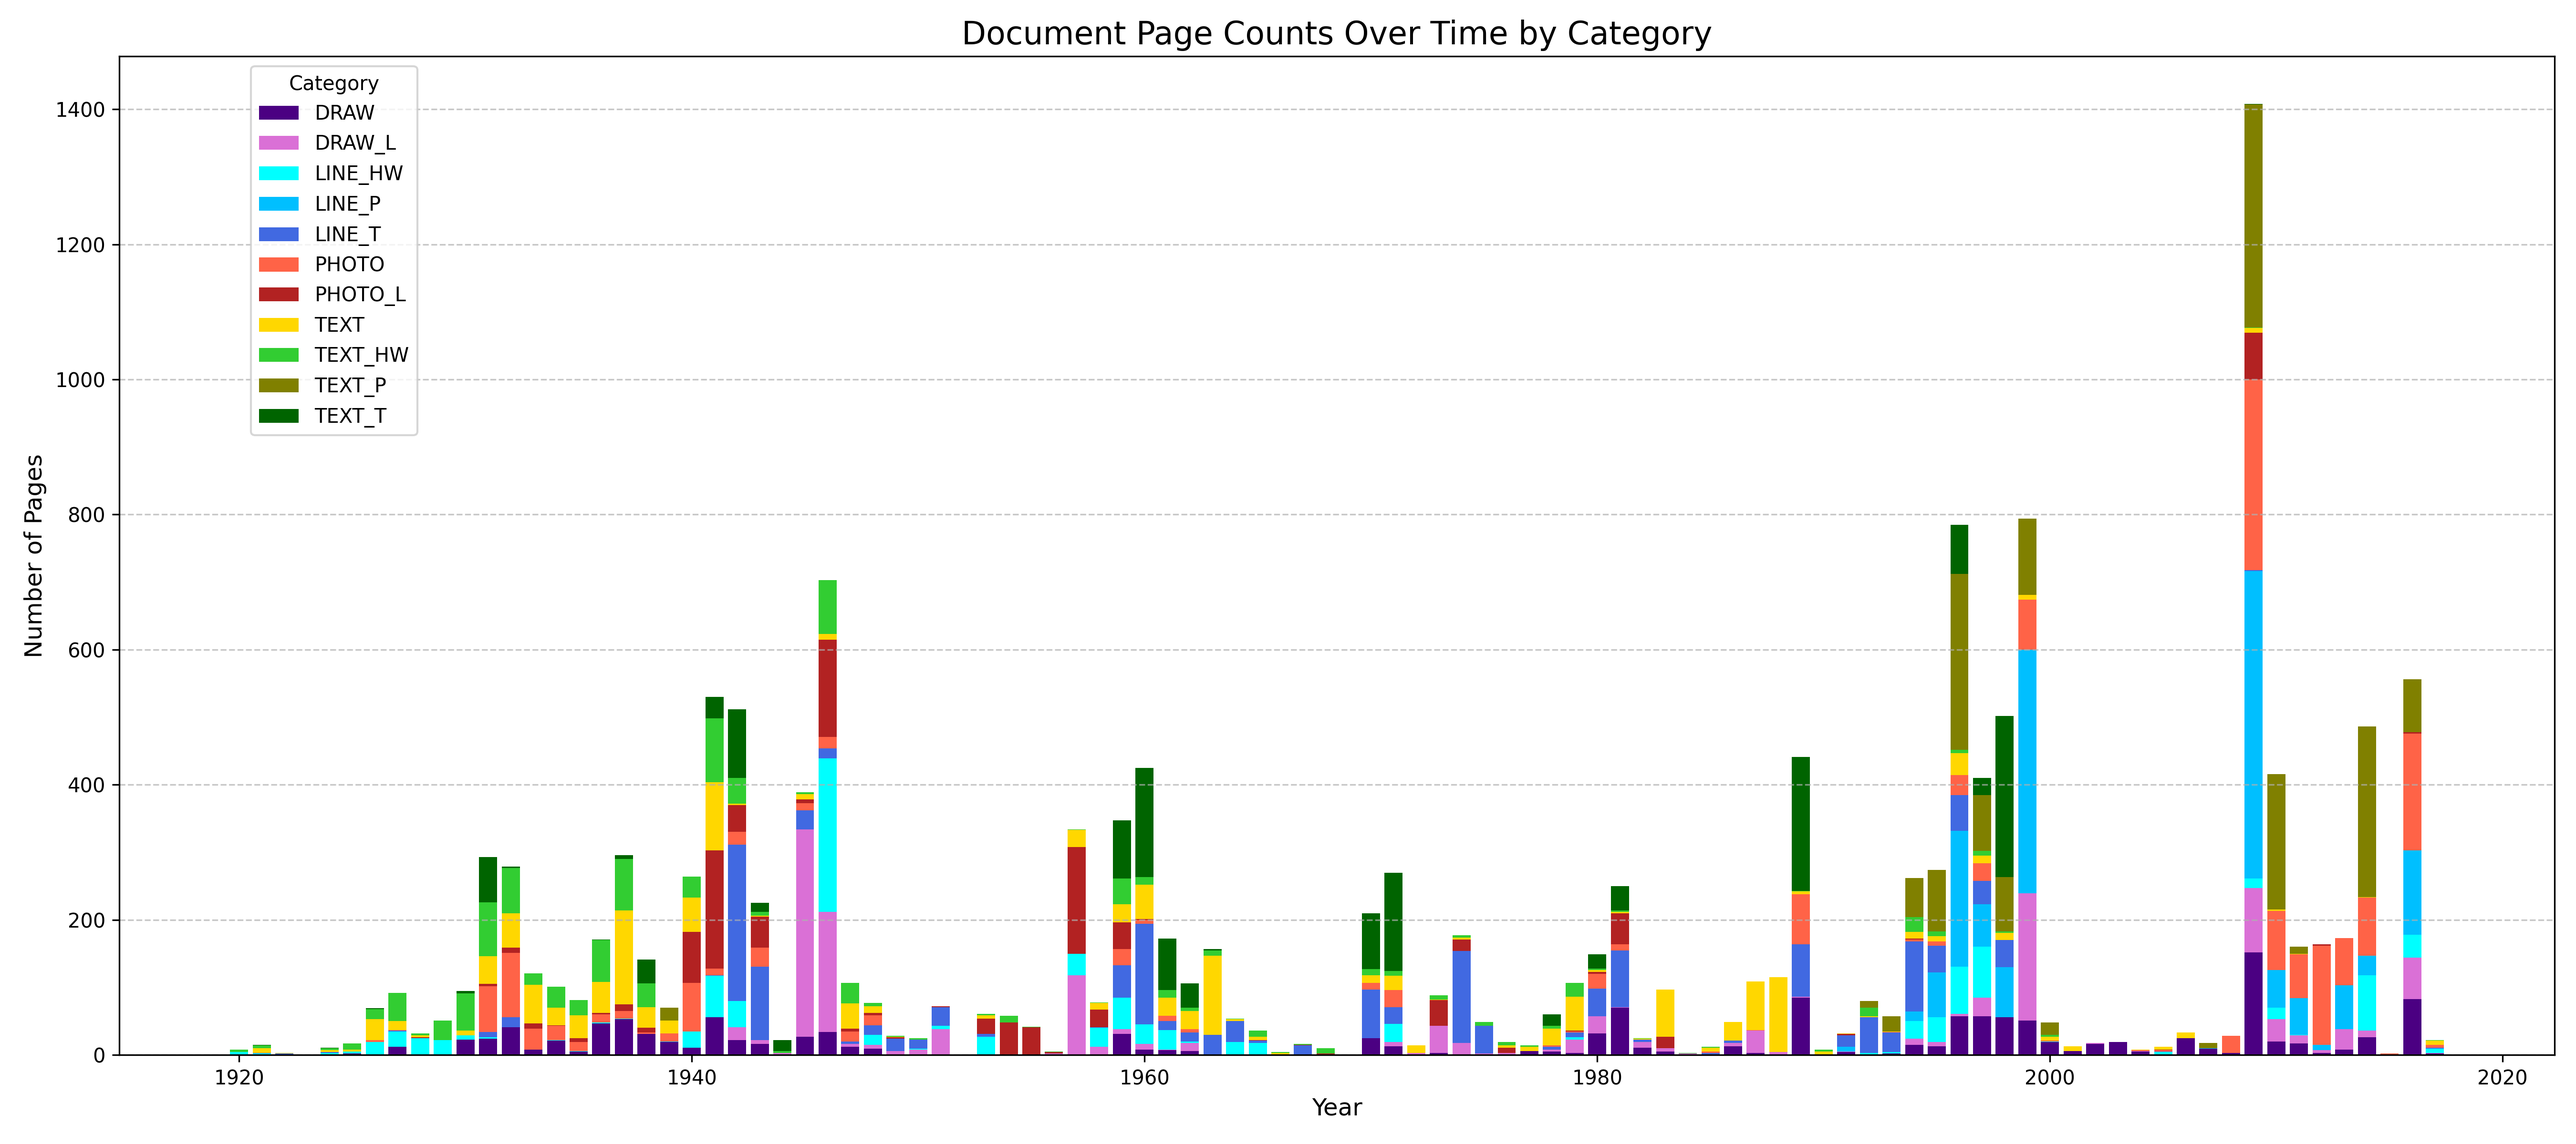
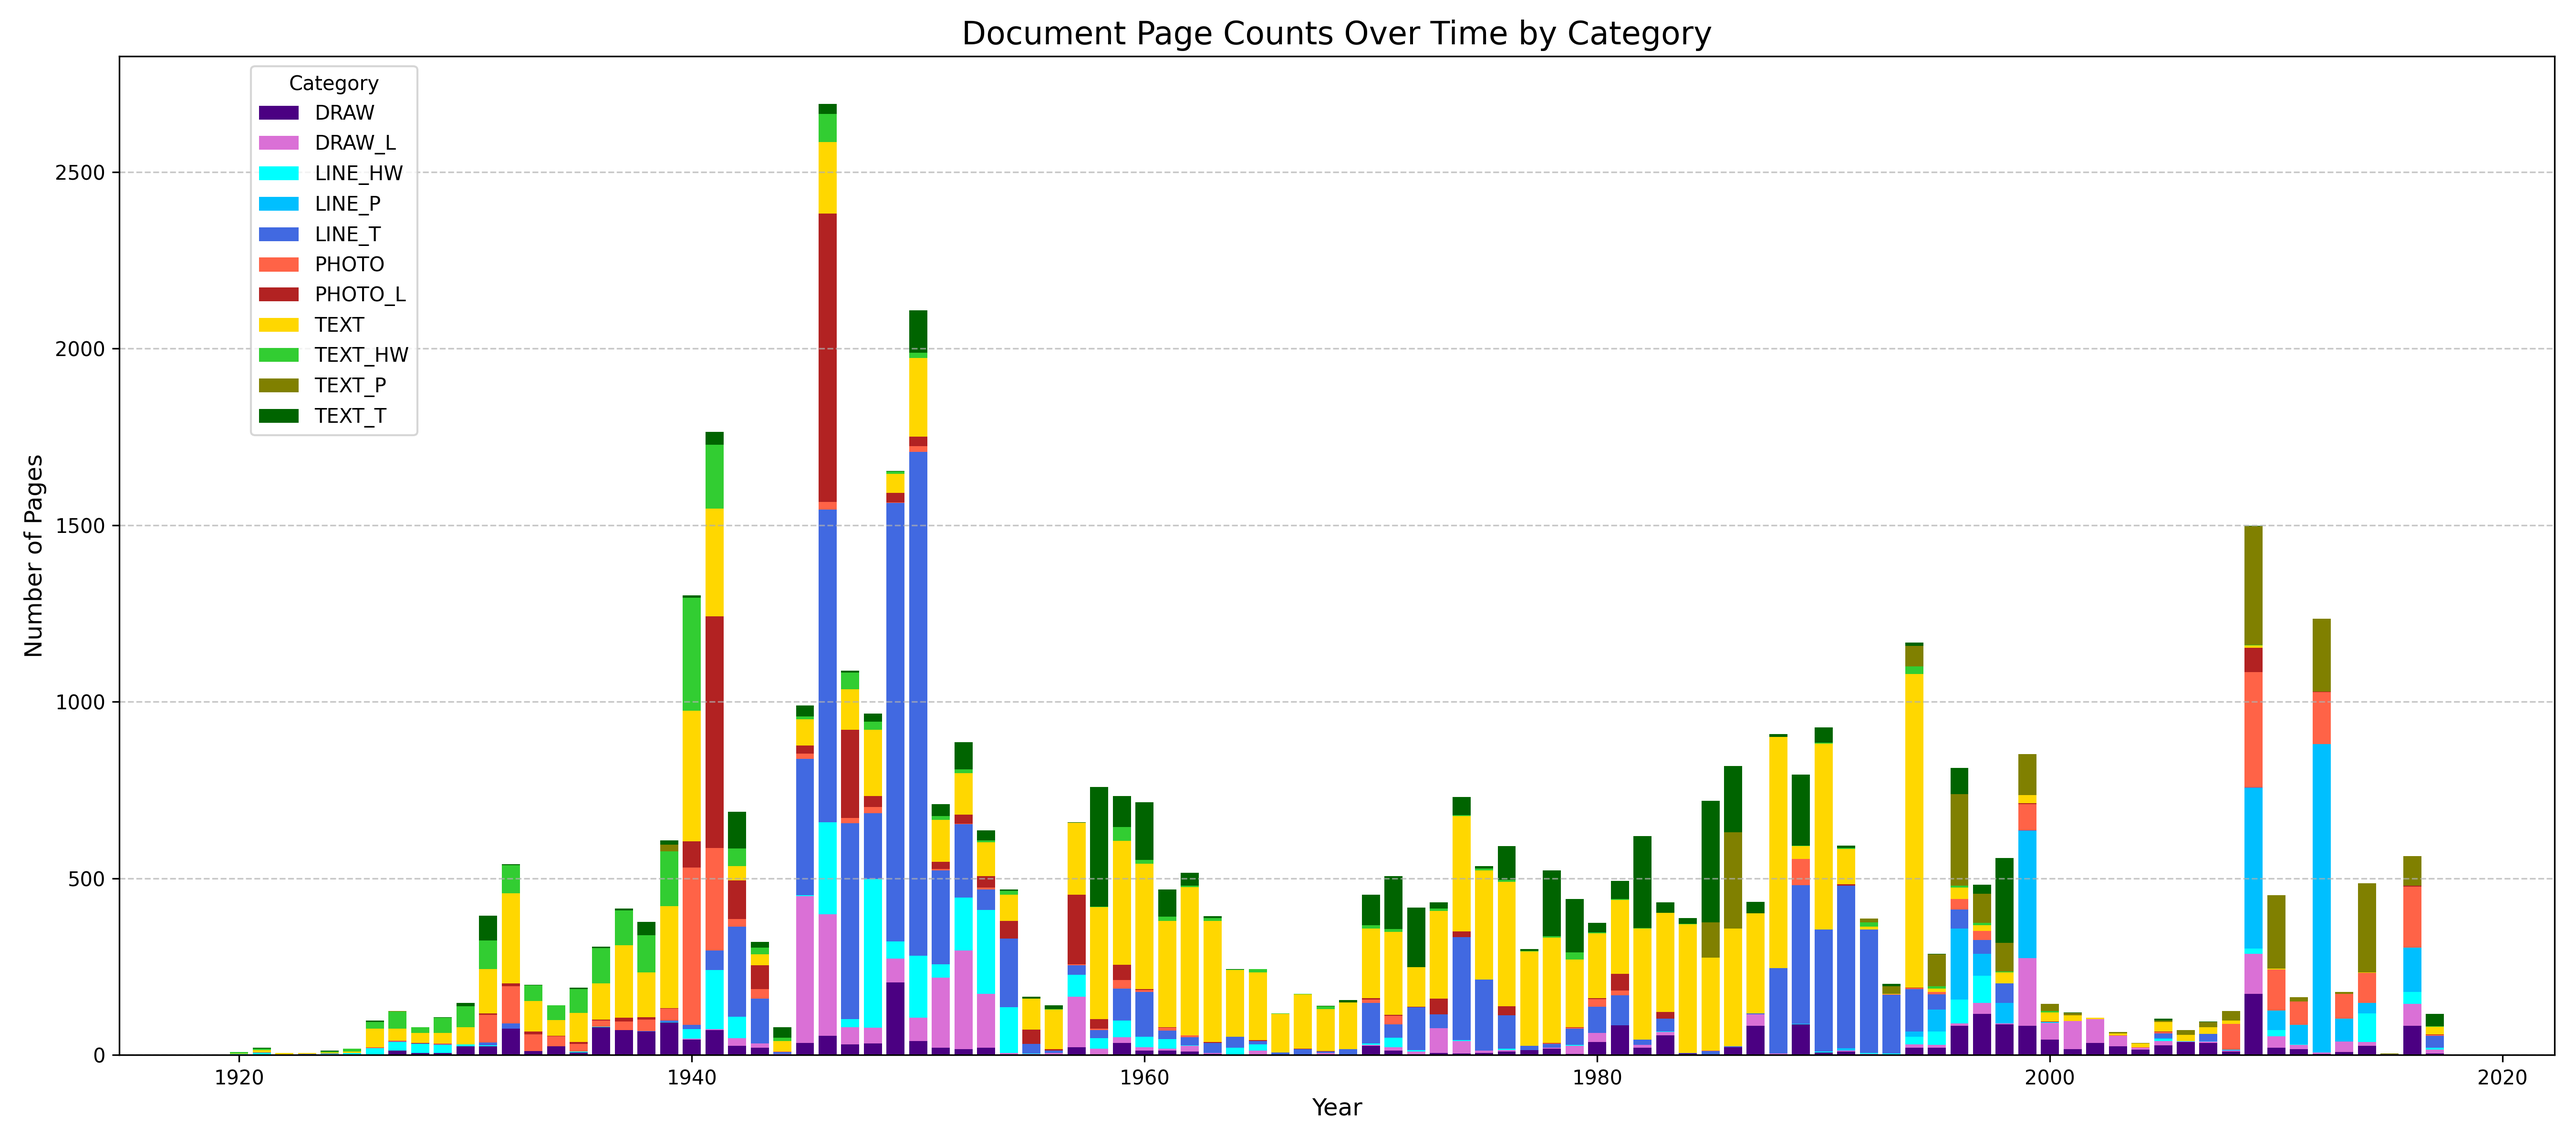
update figures

Changed region(s): [[0.1244, 0.0938, 0.9644, 0.9375], [0.0311, 0.4375, 0.0622, 0.4688]]

diff --git a/CLIP/README.md b/CLIP/README.md
@@ -83,6 +83,11 @@ paper source into one of the categories - each responsible for the following con
 > or structured in tabular 📏 format text, as well as to mark the presence of the printed 🌄 or drawn 📈 graphic 
 > materials yet to be extracted from the page images.
 
+![comparison_graph.png](model_acc_compared.png)
+
+The figure above shows accuracy and parameters comparison of different base models tested on the same data. The figure 
+demonstrates best models overall (above the trendline).
+
 ### Data 📜
 
 The dataset is provided under Public Domain license, and consists of **15855** PNG images of pages from the archival documents.
